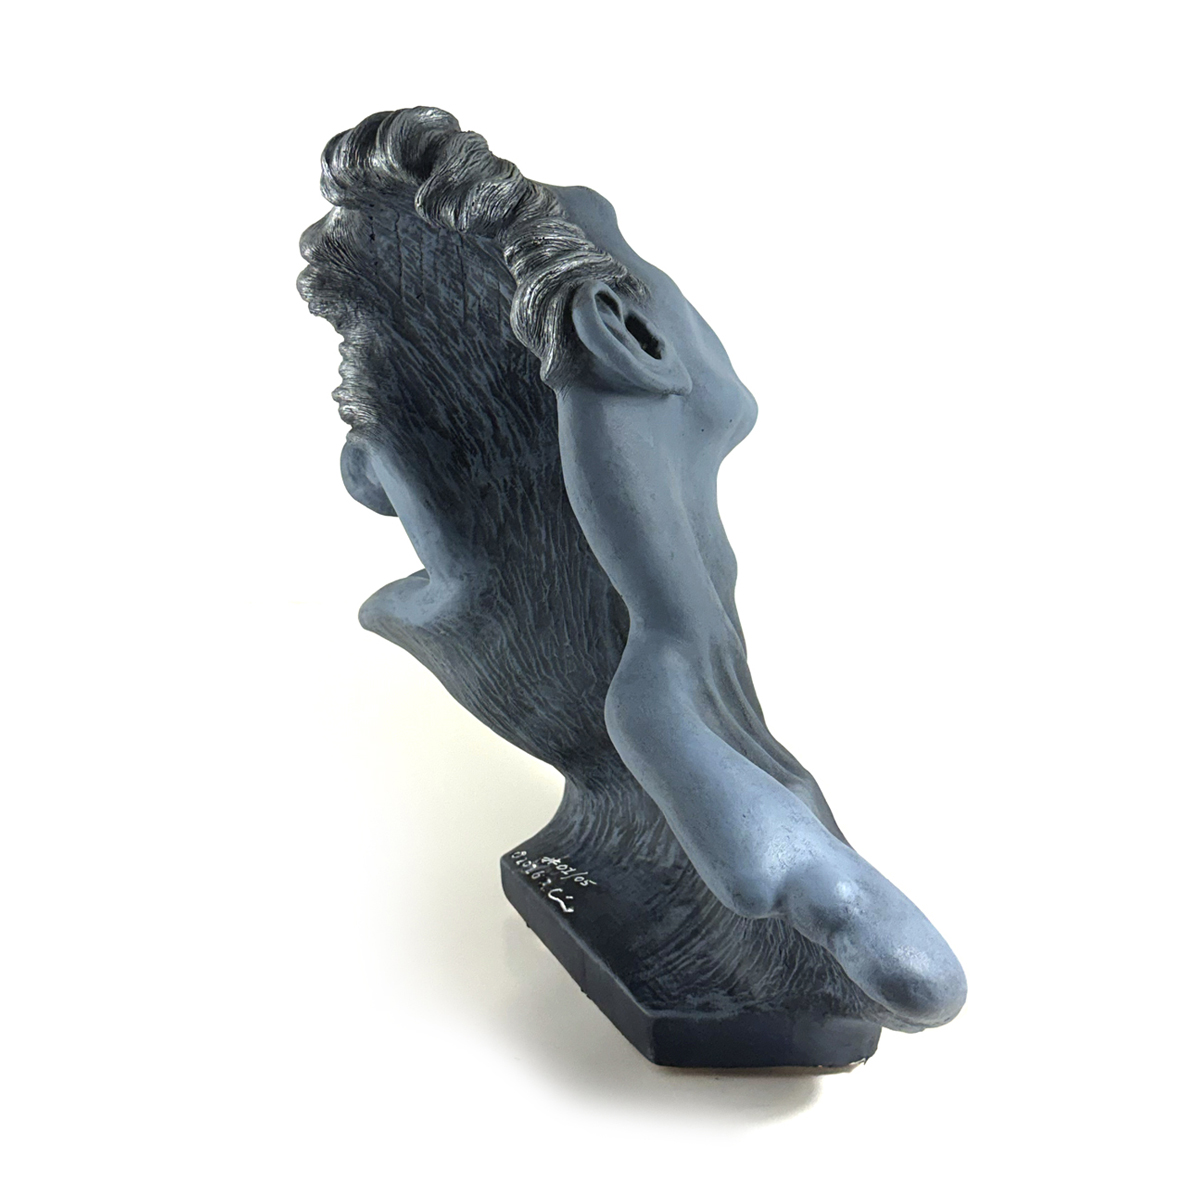
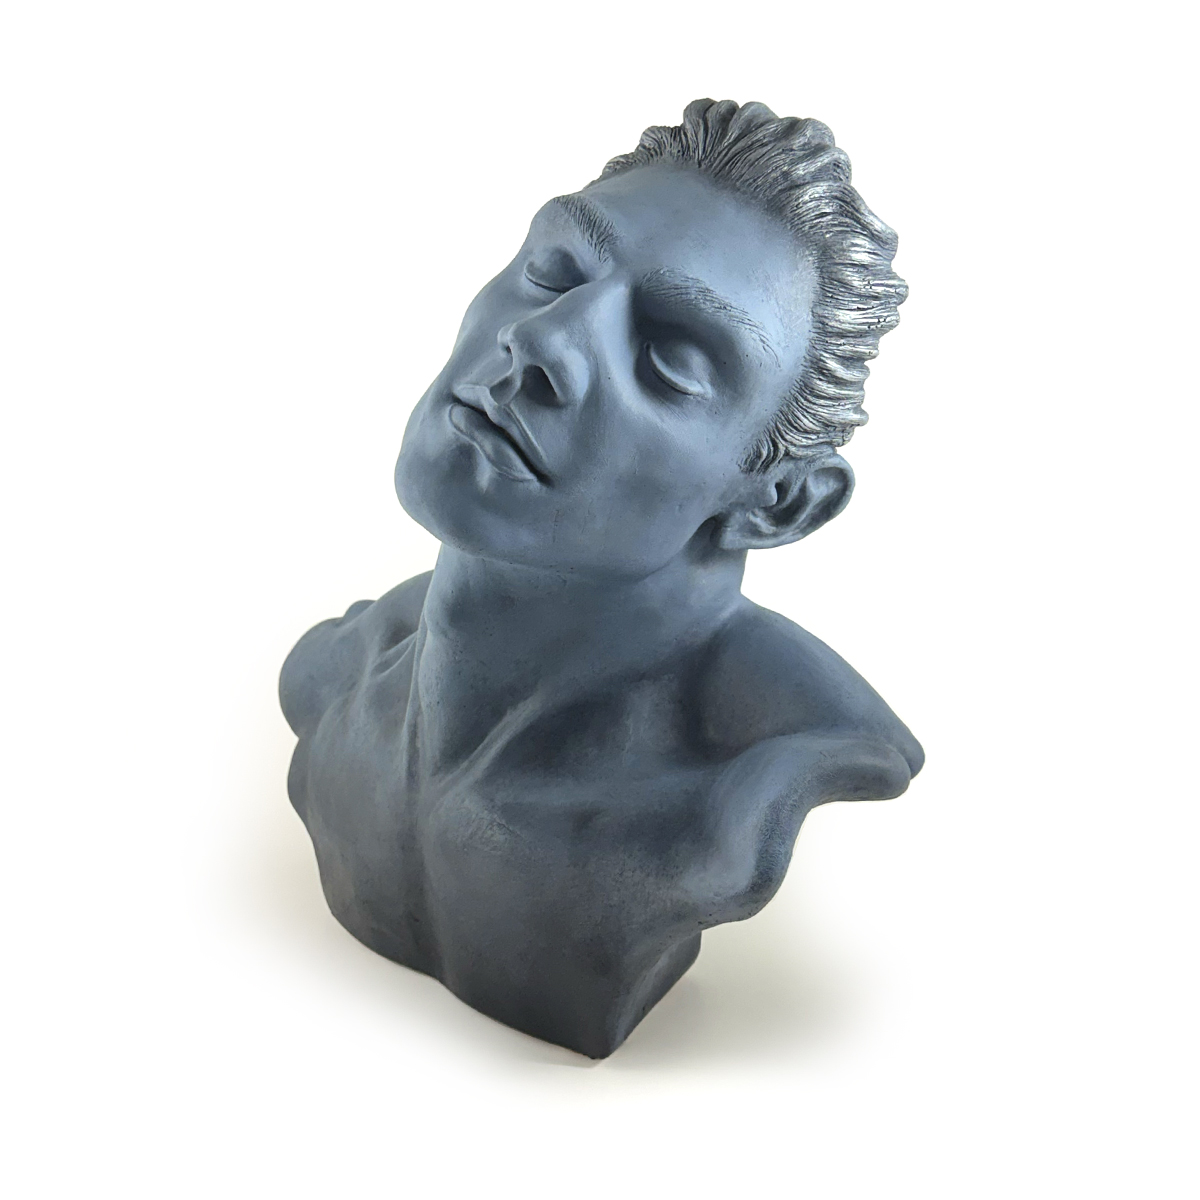
update

diff --git a/gallery/serenity01.html b/gallery/serenity01.html
@@ -104,6 +104,7 @@
 					<div class="product-image-thumbnail"><img src="sculptures/Serenity_01b.jpg" id="2" class="thumb" onclick="preview(this)" alt="image 2"></div>
 					<div class="product-image-thumbnail"><img src="sculptures/Serenity_01c.jpg" id="3" class="thumb" onclick="preview(this)" alt="image 3"></div>
 					<div class="product-image-thumbnail"><img src="sculptures/Serenity_01d.jpg" id="4" class="thumb" onclick="preview(this)" alt="image 4"></div>
+					<div class="product-image-thumbnail"><img src="sculptures/Serenity_01e.jpg" id="4" class="thumb" onclick="preview(this)" alt="image 4"></div>
 
 
 					</div>
